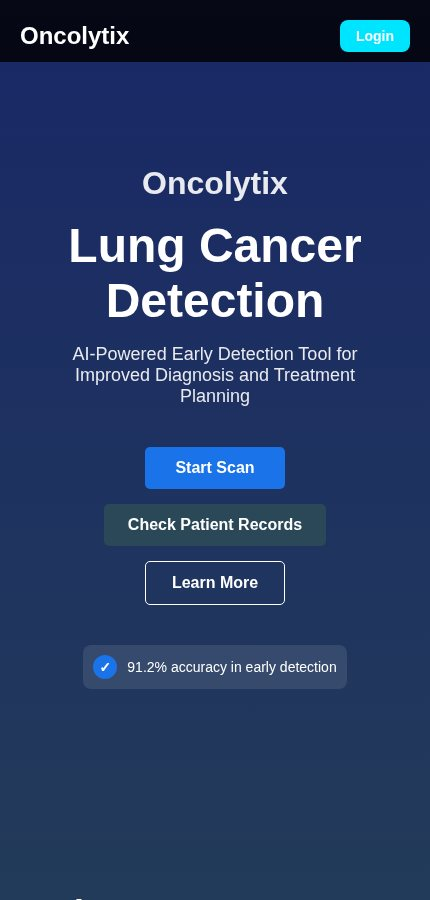
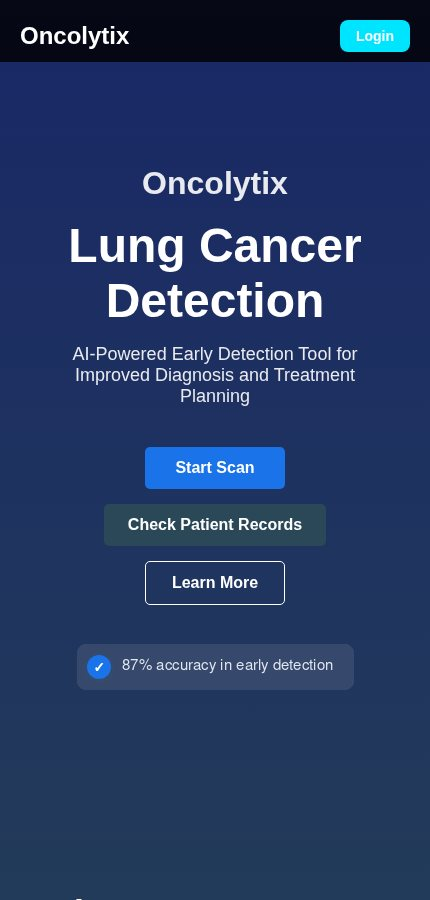
Home: work section + résumé download; projects page lists only projects with screenshots; /resume/ now opens the PDF; OncoLytix screenshot shows 87%

Changed region(s): [[0.1814, 0.7156, 0.786, 0.7778]]

diff --git a/src/css/minimal.css b/src/css/minimal.css
@@ -188,3 +188,22 @@ html.noscroll{overflow:hidden}
 /* project screenshots */
 figure.shot img{width:100%;border:1px solid var(--line);border-radius:8px}
 figure.shot.phone{max-width:260px}
+/* buttons, work, project cards */
+.cta{display:flex;flex-wrap:wrap;gap:10px;margin-top:16px}
+.btn{display:inline-flex;align-items:center;min-height:40px;padding:0 16px;border:1px solid var(--acc);border-radius:8px;color:var(--bg);background:var(--acc);text-decoration:none;border-bottom-width:1px}
+.btn:hover{opacity:.9;color:var(--bg)}
+.btn.ghost{background:transparent;color:var(--acc)}
+.btn.ghost:hover{color:var(--acc)}
+#work{scroll-margin-top:90px}
+#work .job ul{margin:6px 0 0}
+#work .job li{color:var(--dim)}
+.cards{display:grid;gap:18px;margin-top:18px}
+.card{display:grid;grid-template-columns:220px 1fr;gap:18px;border:1px solid var(--line);border-radius:10px;padding:14px;align-items:start}
+.card-img{display:block;border-radius:6px;overflow:hidden;border:1px solid var(--line);aspect-ratio:16/9;background:var(--line);border-bottom-width:1px}
+.card-img img{width:100%;height:100%;object-fit:cover;object-position:top;display:block}
+.card-img.tall img{object-position:center 20%}
+.card h3{margin:0 0 6px}
+.card-body p{margin:0 0 8px}
+.card-links{display:flex;gap:16px}
+.card-links a{padding:4px 0}
+@media (max-width:600px){.card{grid-template-columns:1fr;padding:12px}.card-links a{padding:8px 0}}

diff --git a/src/projects/malnotware.md b/src/projects/malnotware.md
@@ -3,6 +3,7 @@ title: MalNotWare
 order: 2
 year: 2025
 tech: [Docker, VirusTotal API, Browser Extension, JavaScript]
+thumb: /img/projects/malnotware-home.jpg
 summary: A browser extension that watches what you download, then watches what it does.
 source: https://github.com/yashankkothari/Malnotware-Malware-Detection-with-AI-ML
 live: ""

diff --git a/src/projects/oncolytix.md b/src/projects/oncolytix.md
@@ -3,6 +3,7 @@ title: OncoLytix
 order: 3
 year: 2025
 tech: [MobileNetV2, MediaPipe Model Maker, React Native, Expo, Flask]
+thumb: /img/projects/oncolytix-home.jpg
 summary: A phone app that reads lung CT scans and returns a prediction in seconds.
 source: https://github.com/yashankkothari/Lung-Cancer-Detection-Using-ML
 live: ""

diff --git a/src/projects/notesaid.md b/src/projects/notesaid.md
@@ -3,6 +3,7 @@ title: NotesAid
 order: 1
 year: 2025
 tech: [Next.js, React, TypeScript, PWA]
+thumb: /img/projects/notesaid-home.jpg
 summary: An open-source study companion that 2,700+ students found on their own.
 source: https://github.com/yashankkothari/Notes-Aid
 live: ""

diff --git a/src/portfolio.md b/src/portfolio.md
@@ -1,7 +1,7 @@
 ---
 layout: base.njk
 title: The Work
-permalink: /portfolio/
+permalink: "{{ '/classic/portfolio/' if site.design == 'minimal' else '/portfolio/' }}"
 ---
 
 # The Work
